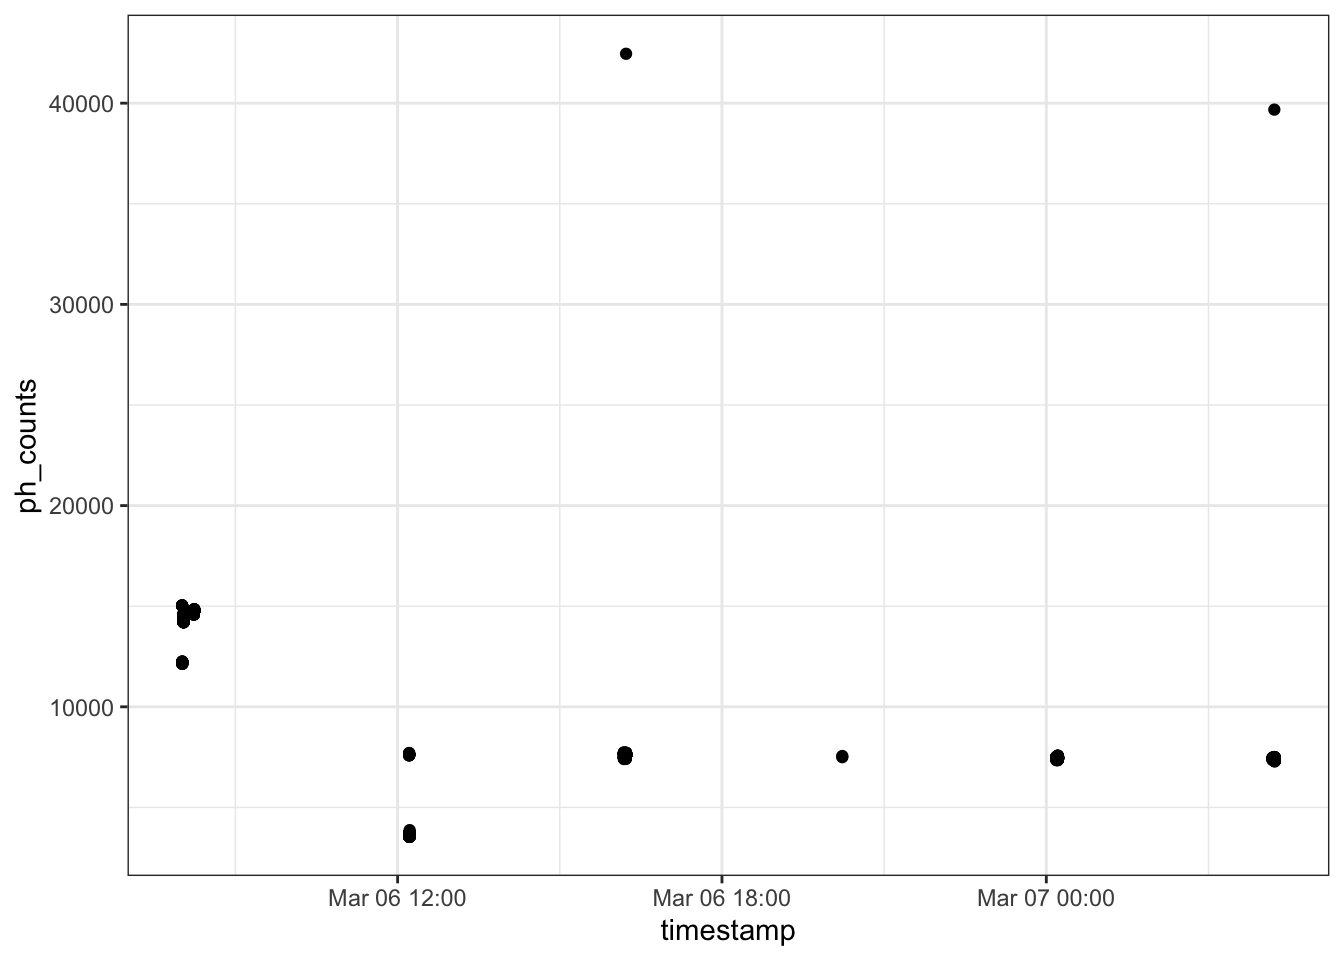
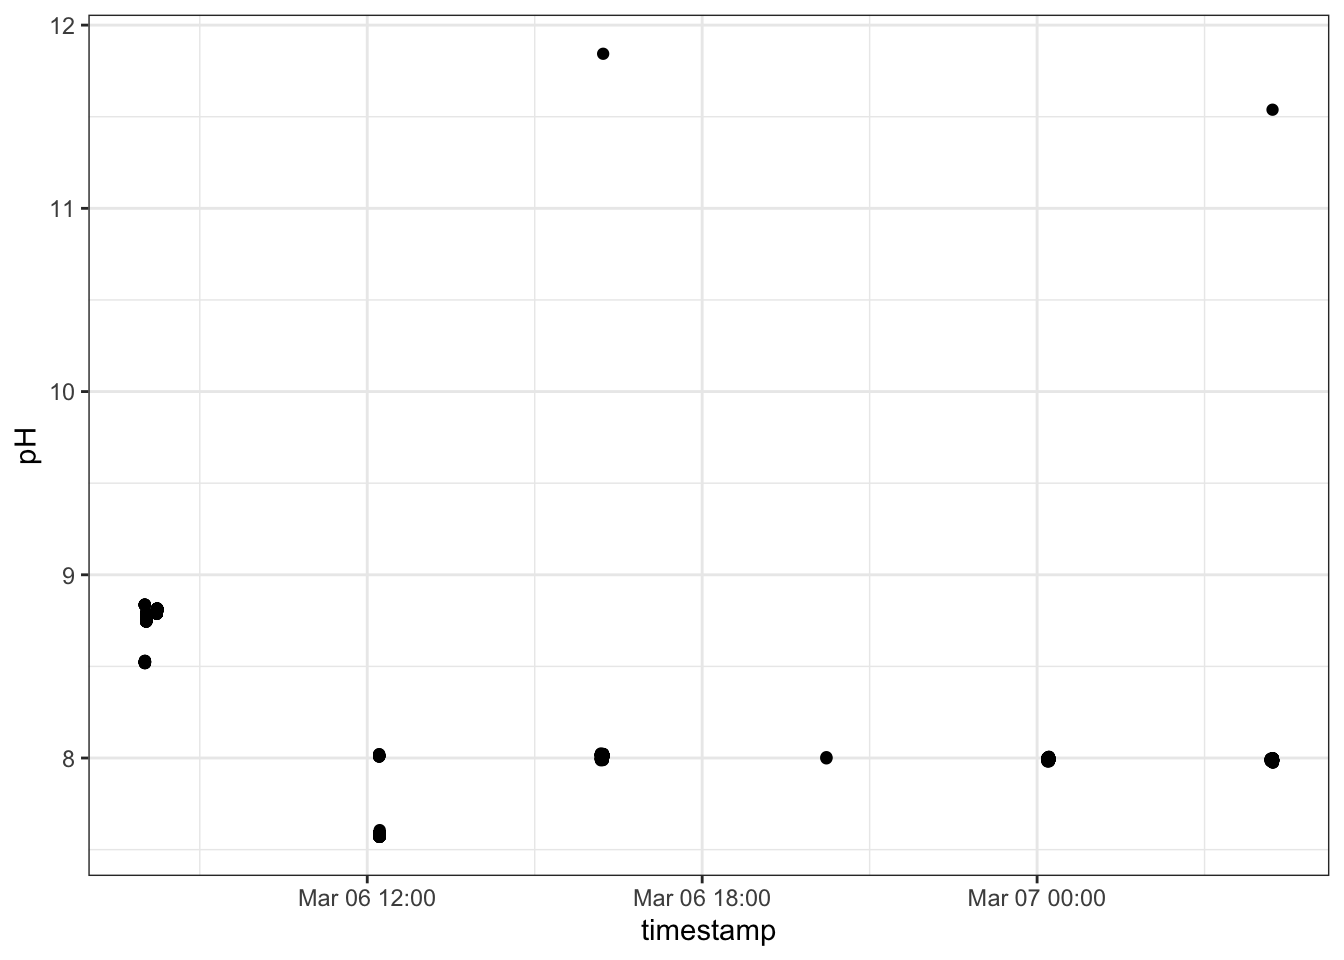
Built site for gh-pages

diff --git a/index.html b/index.html
@@ -196,7 +196,7 @@ pre > code.sourceCode > span > a:first-child::before { text-decoration: underlin
 <span id="cb11-12"><a href="#cb11-12" aria-hidden="true" tabindex="-1"></a>                        <span class="at">sd =</span> <span class="sc">~</span> <span class="fu">sd</span>(.x, <span class="at">na.rm =</span> <span class="cn">TRUE</span>))))</span>
 <span id="cb11-13"><a href="#cb11-13" aria-hidden="true" tabindex="-1"></a></span>
 <span id="cb11-14"><a href="#cb11-14" aria-hidden="true" tabindex="-1"></a>adv_data_mean <span class="ot">&lt;-</span> adv_data_qc <span class="sc">|&gt;</span> </span>
-<span id="cb11-15"><a href="#cb11-15" aria-hidden="true" tabindex="-1"></a>  <span class="fu">select</span>(send, missing, timestamp, pressure, ph_counts, temp, DO_percent) <span class="sc">|&gt;</span> </span>
+<span id="cb11-15"><a href="#cb11-15" aria-hidden="true" tabindex="-1"></a>  <span class="fu">select</span>(send, missing, timestamp, pressure, ph_counts, temp, DO_percent, pH) <span class="sc">|&gt;</span> </span>
 <span id="cb11-16"><a href="#cb11-16" aria-hidden="true" tabindex="-1"></a>  <span class="fu">group_by</span>(send) <span class="sc">|&gt;</span> </span>
 <span id="cb11-17"><a href="#cb11-17" aria-hidden="true" tabindex="-1"></a>  <span class="fu">summarise</span>(<span class="fu">across</span>(<span class="fu">everything</span>(), </span>
 <span id="cb11-18"><a href="#cb11-18" aria-hidden="true" tabindex="-1"></a>                   <span class="fu">list</span>(<span class="at">mean =</span> <span class="sc">~</span> <span class="fu">mean</span>(.x, <span class="at">na.rm =</span> <span class="cn">TRUE</span>), </span>
@@ -328,7 +328,7 @@ Warning in simpleLoess(y, x, w, span, degree = degree, parametric = parametric,
 <p>Data issues cause wild flyers</p>
 <div class="cell">
 <div class="sourceCode cell-code" id="cb24"><pre class="sourceCode r code-with-copy"><code class="sourceCode r"><span id="cb24-1"><a href="#cb24-1" aria-hidden="true" tabindex="-1"></a>adv_data_qc <span class="sc">|&gt;</span> </span>
-<span id="cb24-2"><a href="#cb24-2" aria-hidden="true" tabindex="-1"></a>  <span class="fu">ggplot</span>(<span class="fu">aes</span>(timestamp, ph_counts)) <span class="sc">+</span></span>
+<span id="cb24-2"><a href="#cb24-2" aria-hidden="true" tabindex="-1"></a>  <span class="fu">ggplot</span>(<span class="fu">aes</span>(timestamp, pH)) <span class="sc">+</span></span>
 <span id="cb24-3"><a href="#cb24-3" aria-hidden="true" tabindex="-1"></a>  <span class="fu">geom_point</span>()</span></code><button title="Copy to Clipboard" class="code-copy-button"><i class="bi"></i></button></pre></div>
 <div class="cell-output-display">
 <div>
@@ -340,7 +340,7 @@ Warning in simpleLoess(y, x, w, span, degree = degree, parametric = parametric,
 </div>
 <div class="cell">
 <div class="sourceCode cell-code" id="cb25"><pre class="sourceCode r code-with-copy"><code class="sourceCode r"><span id="cb25-1"><a href="#cb25-1" aria-hidden="true" tabindex="-1"></a>adv_data_mean <span class="sc">|&gt;</span> </span>
-<span id="cb25-2"><a href="#cb25-2" aria-hidden="true" tabindex="-1"></a>  <span class="fu">plot_mean</span>(ph_counts_mean, ph_counts_sd) <span class="sc">+</span></span>
+<span id="cb25-2"><a href="#cb25-2" aria-hidden="true" tabindex="-1"></a>  <span class="fu">plot_mean</span>(pH_mean, pH_sd) <span class="sc">+</span></span>
 <span id="cb25-3"><a href="#cb25-3" aria-hidden="true" tabindex="-1"></a>  <span class="fu">labs</span>(<span class="at">title =</span> <span class="st">"pH"</span>)</span></code><button title="Copy to Clipboard" class="code-copy-button"><i class="bi"></i></button></pre></div>
 <div class="cell-output-display">
 <div>

diff --git a/read_parse_web.html b/read_parse_web.html
@@ -196,7 +196,7 @@ pre > code.sourceCode > span > a:first-child::before { text-decoration: underlin
 <span id="cb11-12"><a href="#cb11-12" aria-hidden="true" tabindex="-1"></a>                        <span class="at">sd =</span> <span class="sc">~</span> <span class="fu">sd</span>(.x, <span class="at">na.rm =</span> <span class="cn">TRUE</span>))))</span>
 <span id="cb11-13"><a href="#cb11-13" aria-hidden="true" tabindex="-1"></a></span>
 <span id="cb11-14"><a href="#cb11-14" aria-hidden="true" tabindex="-1"></a>adv_data_mean <span class="ot">&lt;-</span> adv_data_qc <span class="sc">|&gt;</span> </span>
-<span id="cb11-15"><a href="#cb11-15" aria-hidden="true" tabindex="-1"></a>  <span class="fu">select</span>(send, missing, timestamp, pressure, ph_counts, temp, DO_percent) <span class="sc">|&gt;</span> </span>
+<span id="cb11-15"><a href="#cb11-15" aria-hidden="true" tabindex="-1"></a>  <span class="fu">select</span>(send, missing, timestamp, pressure, ph_counts, temp, DO_percent, pH) <span class="sc">|&gt;</span> </span>
 <span id="cb11-16"><a href="#cb11-16" aria-hidden="true" tabindex="-1"></a>  <span class="fu">group_by</span>(send) <span class="sc">|&gt;</span> </span>
 <span id="cb11-17"><a href="#cb11-17" aria-hidden="true" tabindex="-1"></a>  <span class="fu">summarise</span>(<span class="fu">across</span>(<span class="fu">everything</span>(), </span>
 <span id="cb11-18"><a href="#cb11-18" aria-hidden="true" tabindex="-1"></a>                   <span class="fu">list</span>(<span class="at">mean =</span> <span class="sc">~</span> <span class="fu">mean</span>(.x, <span class="at">na.rm =</span> <span class="cn">TRUE</span>), </span>
@@ -328,7 +328,7 @@ Warning in simpleLoess(y, x, w, span, degree = degree, parametric = parametric,
 <p>Data issues cause wild flyers</p>
 <div class="cell">
 <div class="sourceCode cell-code" id="cb24"><pre class="sourceCode r code-with-copy"><code class="sourceCode r"><span id="cb24-1"><a href="#cb24-1" aria-hidden="true" tabindex="-1"></a>adv_data_qc <span class="sc">|&gt;</span> </span>
-<span id="cb24-2"><a href="#cb24-2" aria-hidden="true" tabindex="-1"></a>  <span class="fu">ggplot</span>(<span class="fu">aes</span>(timestamp, ph_counts)) <span class="sc">+</span></span>
+<span id="cb24-2"><a href="#cb24-2" aria-hidden="true" tabindex="-1"></a>  <span class="fu">ggplot</span>(<span class="fu">aes</span>(timestamp, pH)) <span class="sc">+</span></span>
 <span id="cb24-3"><a href="#cb24-3" aria-hidden="true" tabindex="-1"></a>  <span class="fu">geom_point</span>()</span></code><button title="Copy to Clipboard" class="code-copy-button"><i class="bi"></i></button></pre></div>
 <div class="cell-output-display">
 <div>
@@ -340,7 +340,7 @@ Warning in simpleLoess(y, x, w, span, degree = degree, parametric = parametric,
 </div>
 <div class="cell">
 <div class="sourceCode cell-code" id="cb25"><pre class="sourceCode r code-with-copy"><code class="sourceCode r"><span id="cb25-1"><a href="#cb25-1" aria-hidden="true" tabindex="-1"></a>adv_data_mean <span class="sc">|&gt;</span> </span>
-<span id="cb25-2"><a href="#cb25-2" aria-hidden="true" tabindex="-1"></a>  <span class="fu">plot_mean</span>(ph_counts_mean, ph_counts_sd) <span class="sc">+</span></span>
+<span id="cb25-2"><a href="#cb25-2" aria-hidden="true" tabindex="-1"></a>  <span class="fu">plot_mean</span>(pH_mean, pH_sd) <span class="sc">+</span></span>
 <span id="cb25-3"><a href="#cb25-3" aria-hidden="true" tabindex="-1"></a>  <span class="fu">labs</span>(<span class="at">title =</span> <span class="st">"pH"</span>)</span></code><button title="Copy to Clipboard" class="code-copy-button"><i class="bi"></i></button></pre></div>
 <div class="cell-output-display">
 <div>
